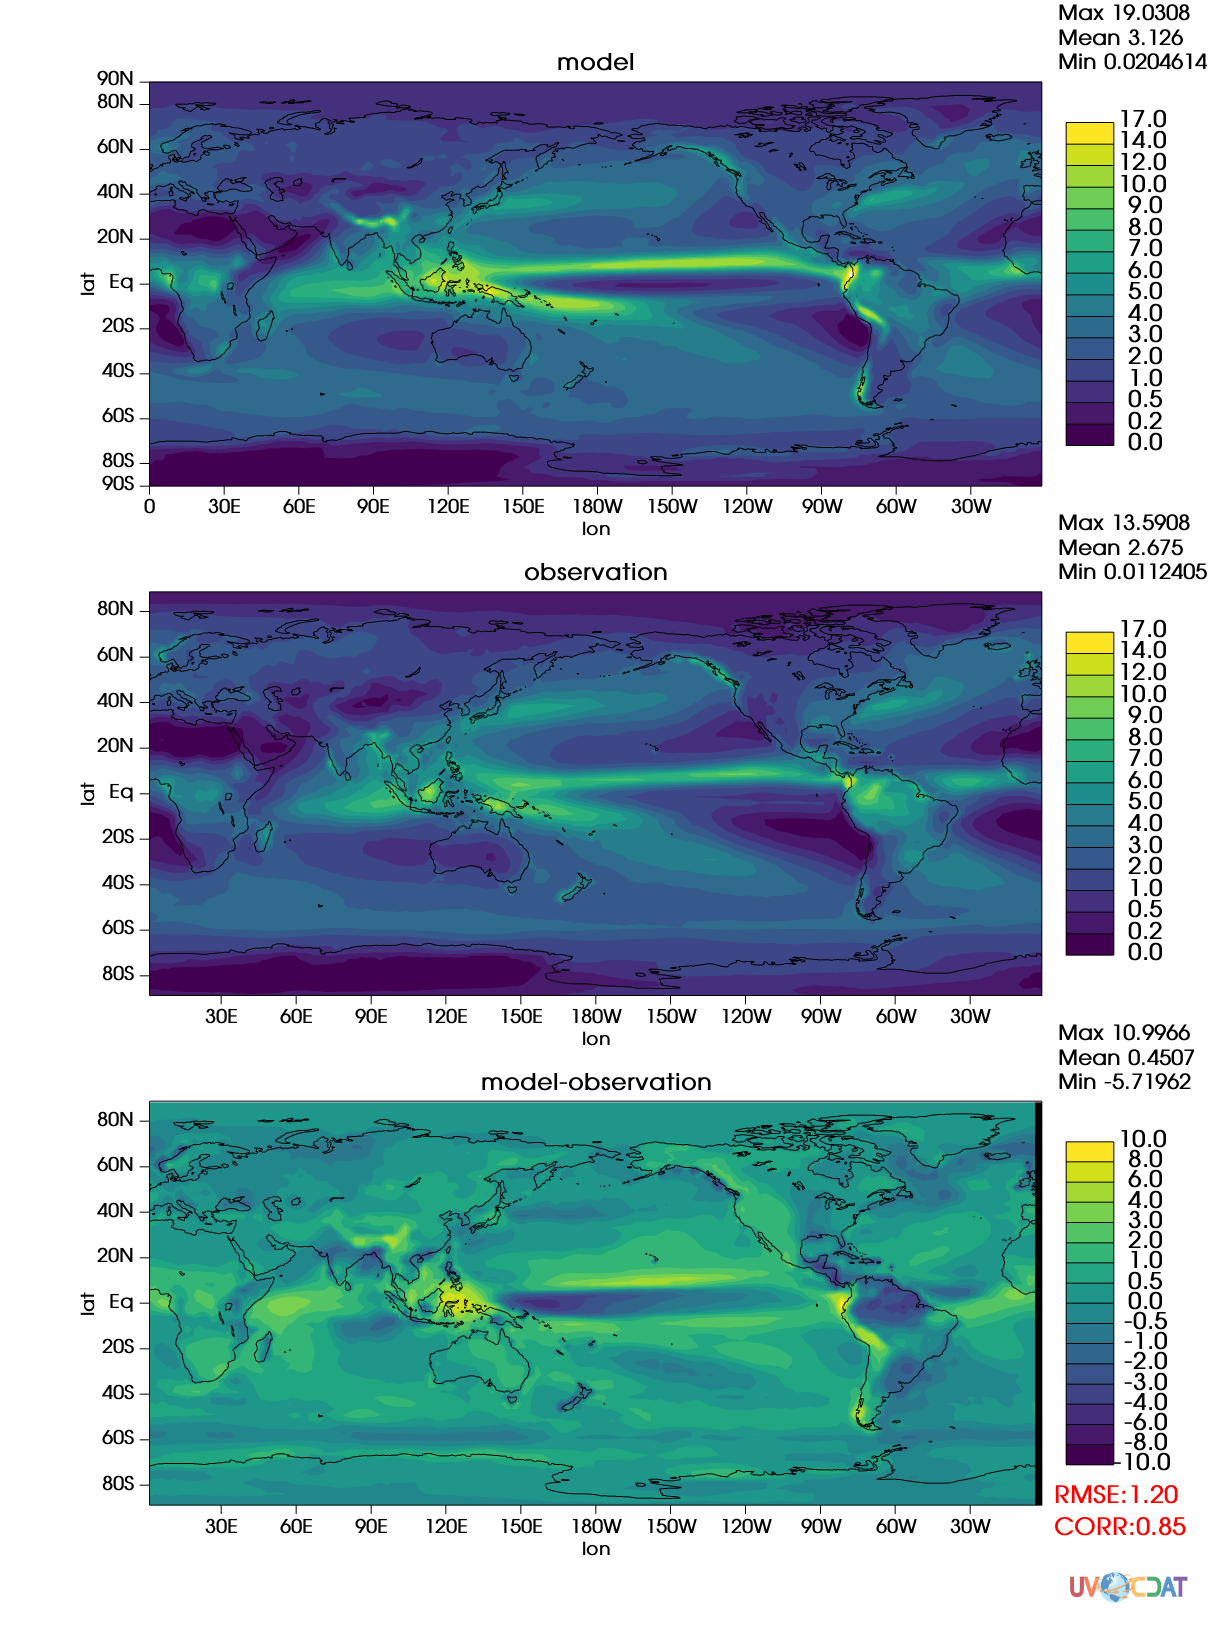
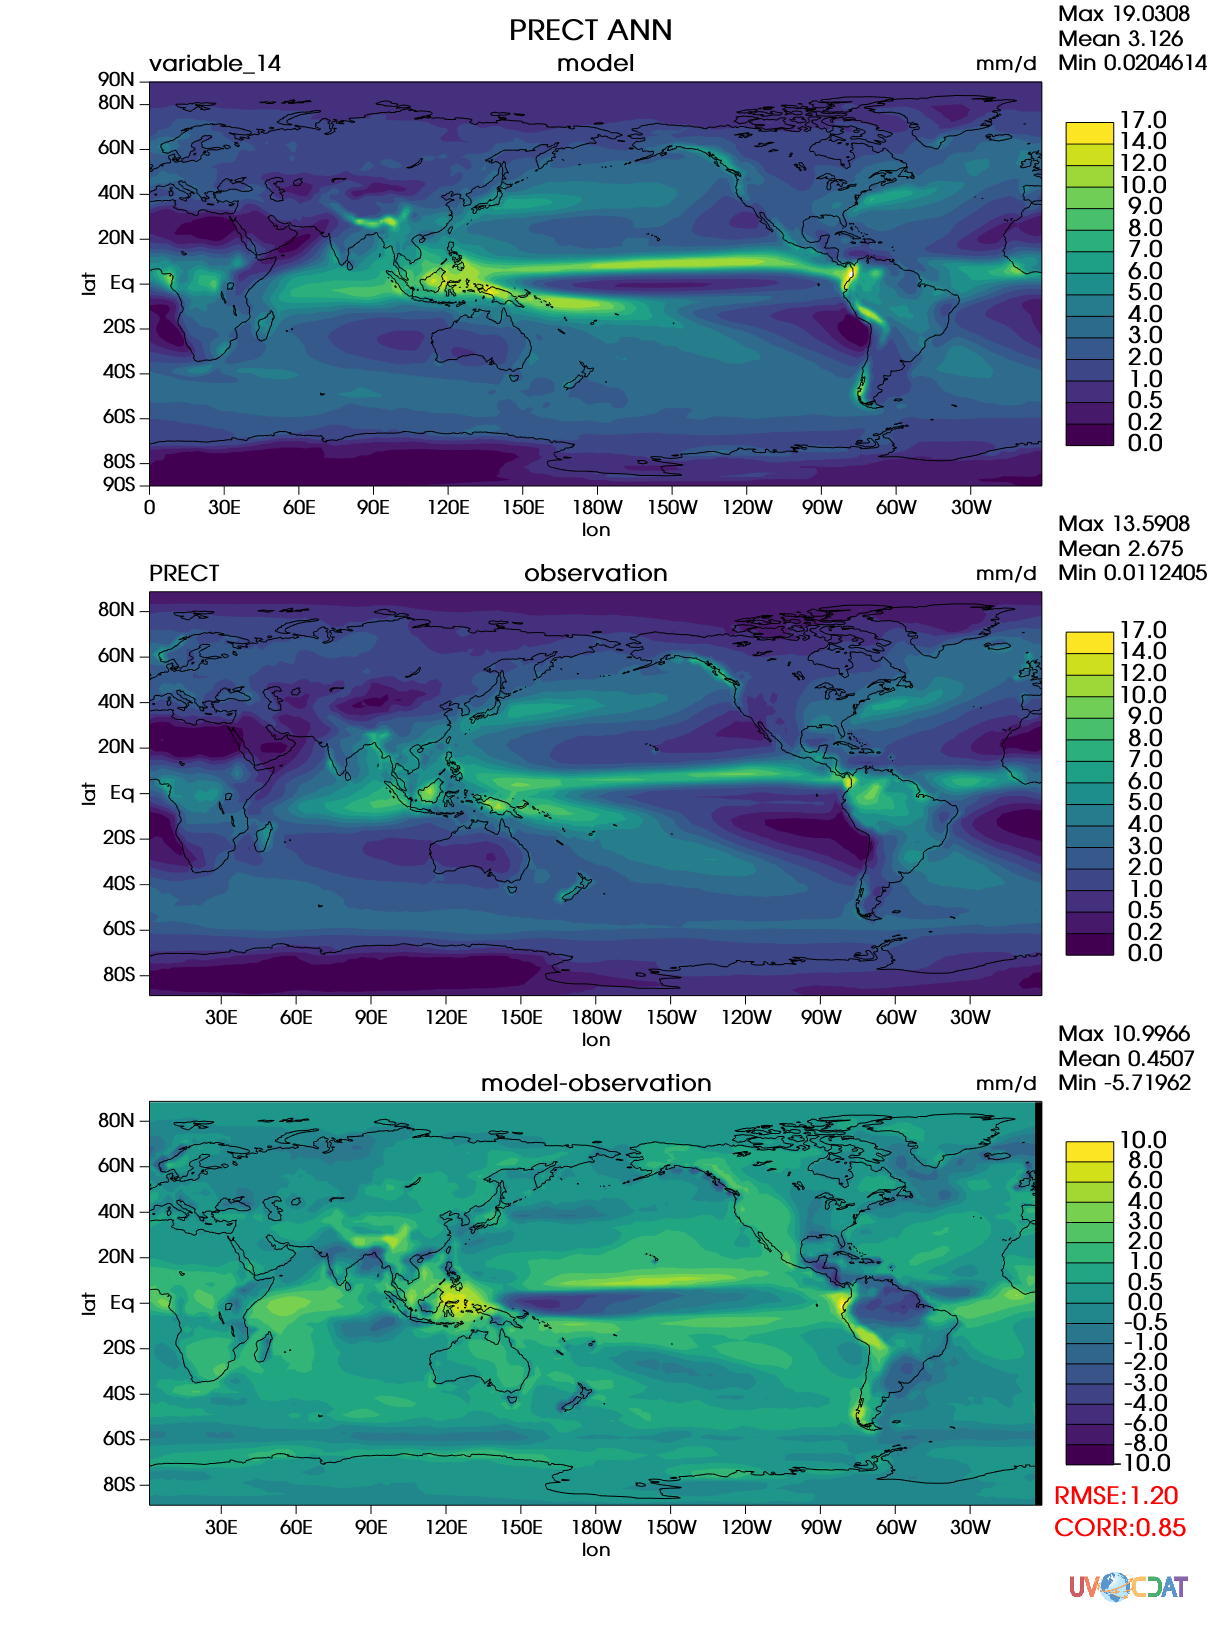
add main title, output data name

diff --git a/acme_diags/jill_test/set5_ANN_PRECT_GPCP_model_tmp.py b/acme_diags/jill_test/set5_ANN_PRECT_GPCP_model_tmp.py
@@ -25,10 +25,14 @@ def compute_corr(model, obs):
         print err
     return corr
 
-reference_data_path='/space1/test_data/obs_for_diagnostics/'  # observation
-test_data_path='/space/golaz1/ACME_simulations/20160520.A_WCYCL1850.ne30_oEC.edison.alpha6_01/pp/clim_rgr/0070-0099/'  # model
-#reference_data_path='../'
-#test_data_path='../'
+#reference_data_path='/space1/test_data/obs_for_diagnostics/'  # observation
+#test_data_path='/space/golaz1/ACME_simulations/20160520.A_WCYCL1850.ne30_oEC.edison.alpha6_01/pp/clim_rgr/0070-0099/'  # model
+reference_data_path='../'
+test_data_path='../'
+
+#Pre defined variables
+var='PRECT'
+season='ANN'
 
 #Read in data
 reference_data_set='GPCP_v2.2_ANN_climo.nc'  # observation
@@ -38,7 +42,8 @@ f_obs=cdms2.open(reference_data_path + reference_data_set)
 f_mod=cdms2.open(test_data_path + test_data_set)
 
 obs_pr=f_obs('PRECT')
-mod_pr=(f_mod('PRECC')+f_mod('PRECL'))*3600.0*24.0*1000.0
+mod_pr=(f_mod('PRECC')+f_mod('PRECL'))*3600.0*24.0*1000.0 #this is derived variable convert m/s to mm/d
+mod_pr.units='mm/d'
 
 
 #For plotting, original grid is plotted for model observation, differece plot is regridded to coaser grid. Need if statement to evaluate grid size. aminusb_2ax from uvcmetrics takes care of this,which also considers complex corner cases.
@@ -53,8 +58,6 @@ else:
     obs_pr_reg=obs_pr
     mod_pr_reg=mod_pr.regrid(obs_grid,regridTool='esmf',regridMethod='linear')
 dif_pr=mod_pr_reg-obs_pr_reg
-print dir(dif_pr)
-quit(dif_pr)
 
 #calculate metrics and pass in as mv attribute,failed
 #obs_pr.mean=round(cdutil.averager(obs_pr, axis='xy', weights='generate'),2) #area-weighting
@@ -71,8 +74,8 @@ quit(dif_pr)
 
 
 #CORR and RMSE need to be calculated after reduction to ensure same array shapes.
-rmse= 'RMSE:'+'%.2f' %round(compute_rmse(obs_pr_reg, mod_pr_reg),2)
-corr= 'CORR:'+'%.2f' %round(compute_corr(obs_pr_reg, mod_pr_reg),2)
+rmse= 'RMSE:'+'%.2f' %compute_rmse(obs_pr_reg, mod_pr_reg)
+corr= 'CORR:'+'%.2f' %compute_corr(obs_pr_reg, mod_pr_reg)
 print rmse, corr
 
 #Plotting
@@ -88,9 +91,30 @@ template_2 = x.gettemplate('plotset5_0_x_2')
 mod_pr.long_name='model'
 obs_pr.long_name='observation'
 dif_pr.long_name='model-observation'
+
+#Or we can change title attribute, adding 3 more lines though...
+#mod_pr.title='model'
+#obs_pr.title='observation'
+#dif_pr.title='model-observation'
+#
+#del mod_pr.long_name
+#del obs_pr.long_name
+#del dif_pr.long_name
 template_0.title.priority=1
 template_1.title.priority=1
 template_2.title.priority=1
+
+template_0.units.priority=1
+template_1.units.priority=1
+template_2.units.priority=1
+
+#The dataname part should pass in basic model info: model_version...and basic obs info:obsname_version_years
+#Those information will be provided by metadata.
+template_0.dataname.priority=1
+template_1.dataname.priority=1
+
+mod_pr.dataname='test'
+
 
 isofill = x.createisofill()
 isofill.levels=[0,0.2, 0.5, 1, 2, 3, 4, 5, 6, 7, 8, 9, 10, 12, 14, 17]
@@ -100,6 +124,7 @@ x.plot(mod_pr, template_0, isofill)
 isofill = x.createisofill()
 isofill.levels=[0,0.2, 0.5, 1, 2, 3, 4, 5, 6, 7, 8, 9, 10, 12, 14, 17]
 
+#x.plot(obs_pr, template_1, isofill)
 x.plot(obs_pr, template_1, isofill)
 #x.setcolormap('bl_to_darkred')
 
@@ -119,6 +144,13 @@ x.plot(out_1)
 isofill = x.createisofill()
 isofill.levels=[-10,-8, -6, -4, -3, -2, -1,-0.5, 0, 0.5, 1, 2, 3, 4, 6, 8,10]
 x.plot(dif_pr, template_2, isofill)
+
+#Create main title for the 3 plots 
+main_title=vcs.createtext()
+main_title.string=' '.join([var,season])
+main_title.x=0.42
+main_title.y=0.98
+x.plot(main_title)
 
 x.png('test.png')
 
